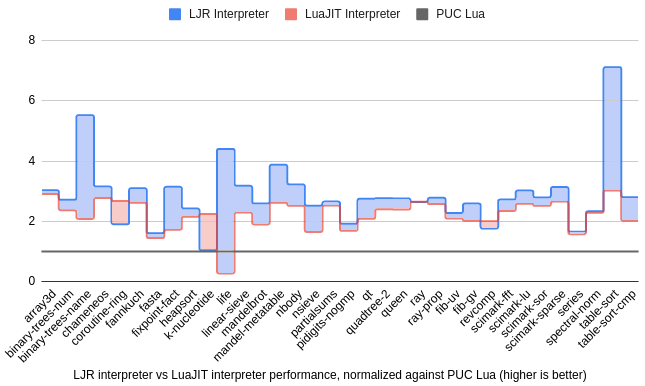
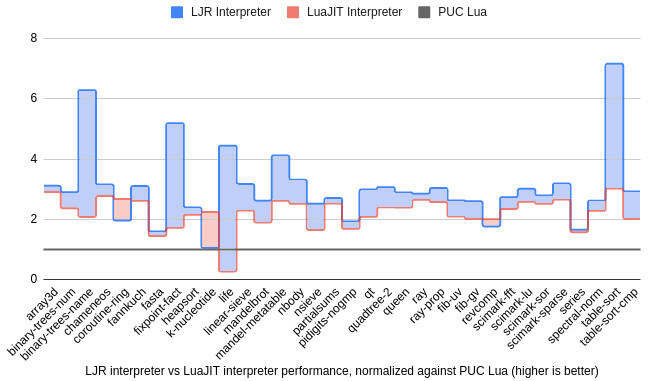
update perf numbers, NFC

diff --git a/README.md b/README.md
@@ -12,7 +12,7 @@ Currently we have implemented:
 
 ### Interpreter performance comparison
 
-On [a variety of benchmarks](luabench), we demonstrate that our interpreter is 28% faster than LuaJIT's interpreter, and 171% faster than the official PUC Lua5.1 interpreter[^1]. 
+On [a variety of benchmarks](luabench), we demonstrate that our interpreter is 34.6% faster than LuaJIT's interpreter, and 185% faster than the official PUC Lua5.1 interpreter[^1]. 
 
 The following figure illustrates our performance vs LuaJIT interpreter, normalized to PUC Lua's performance. Blue shadow indicates benchmarks where we do better than LuaJIT, and red shadow indicates benchmarks where LuaJIT does better than us. 
 
